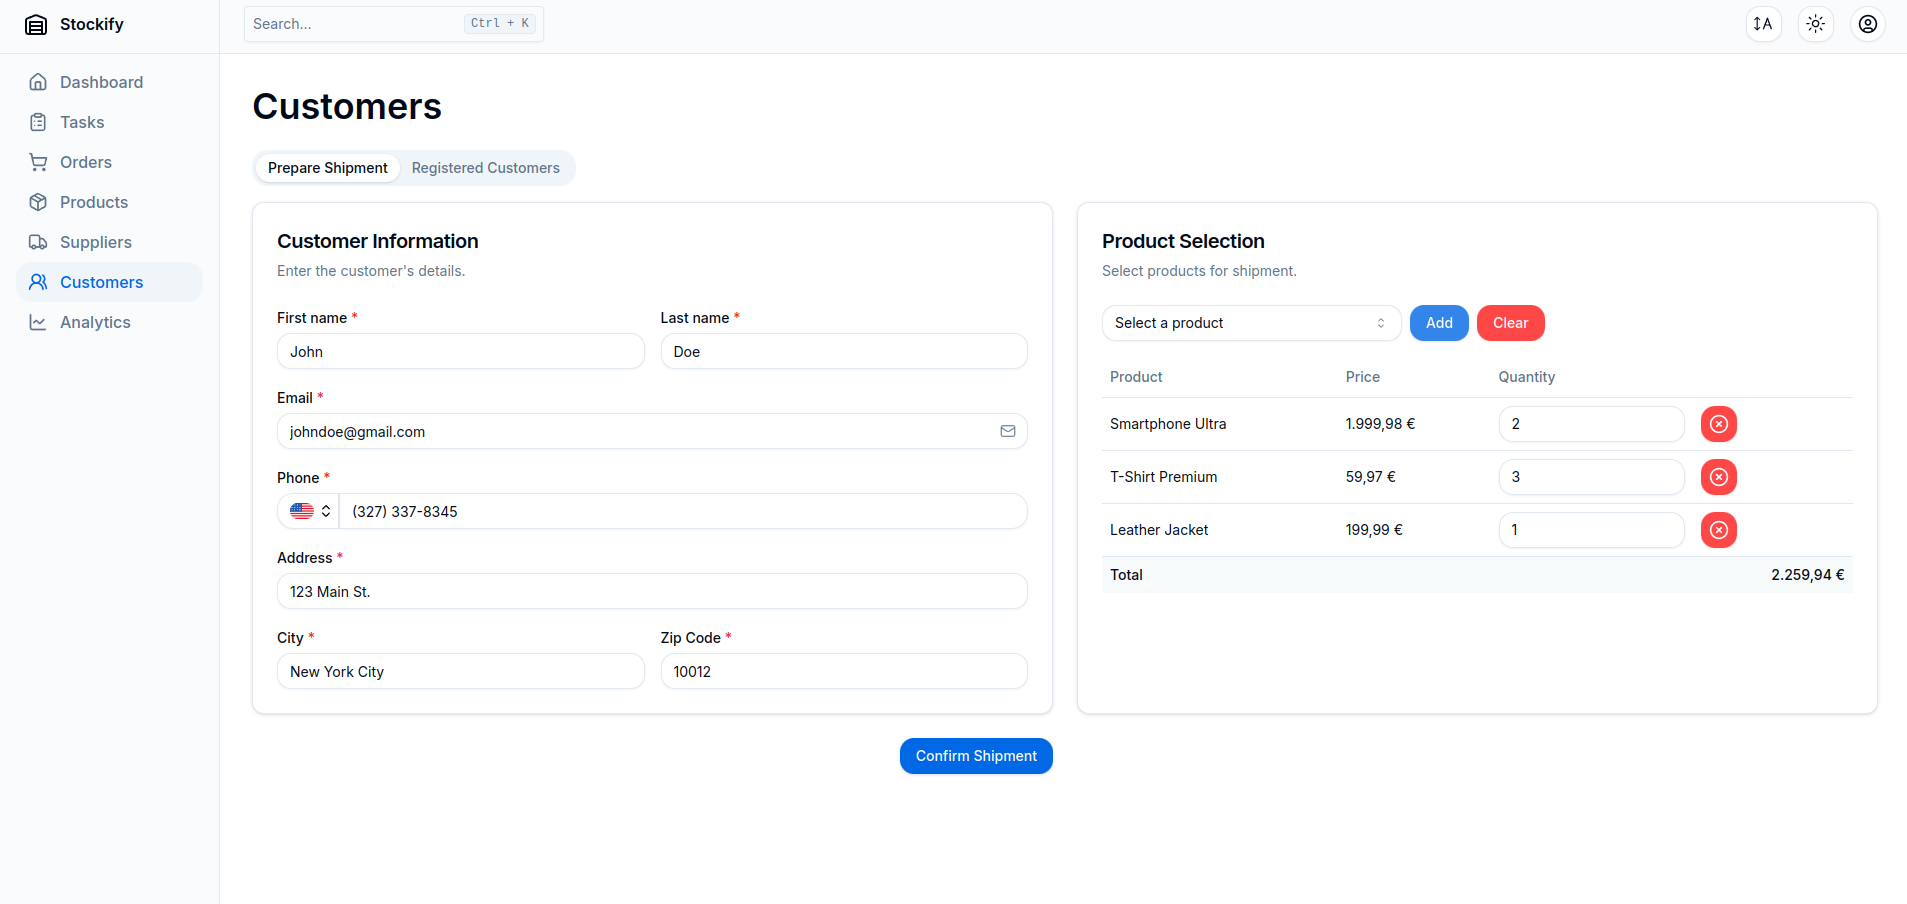
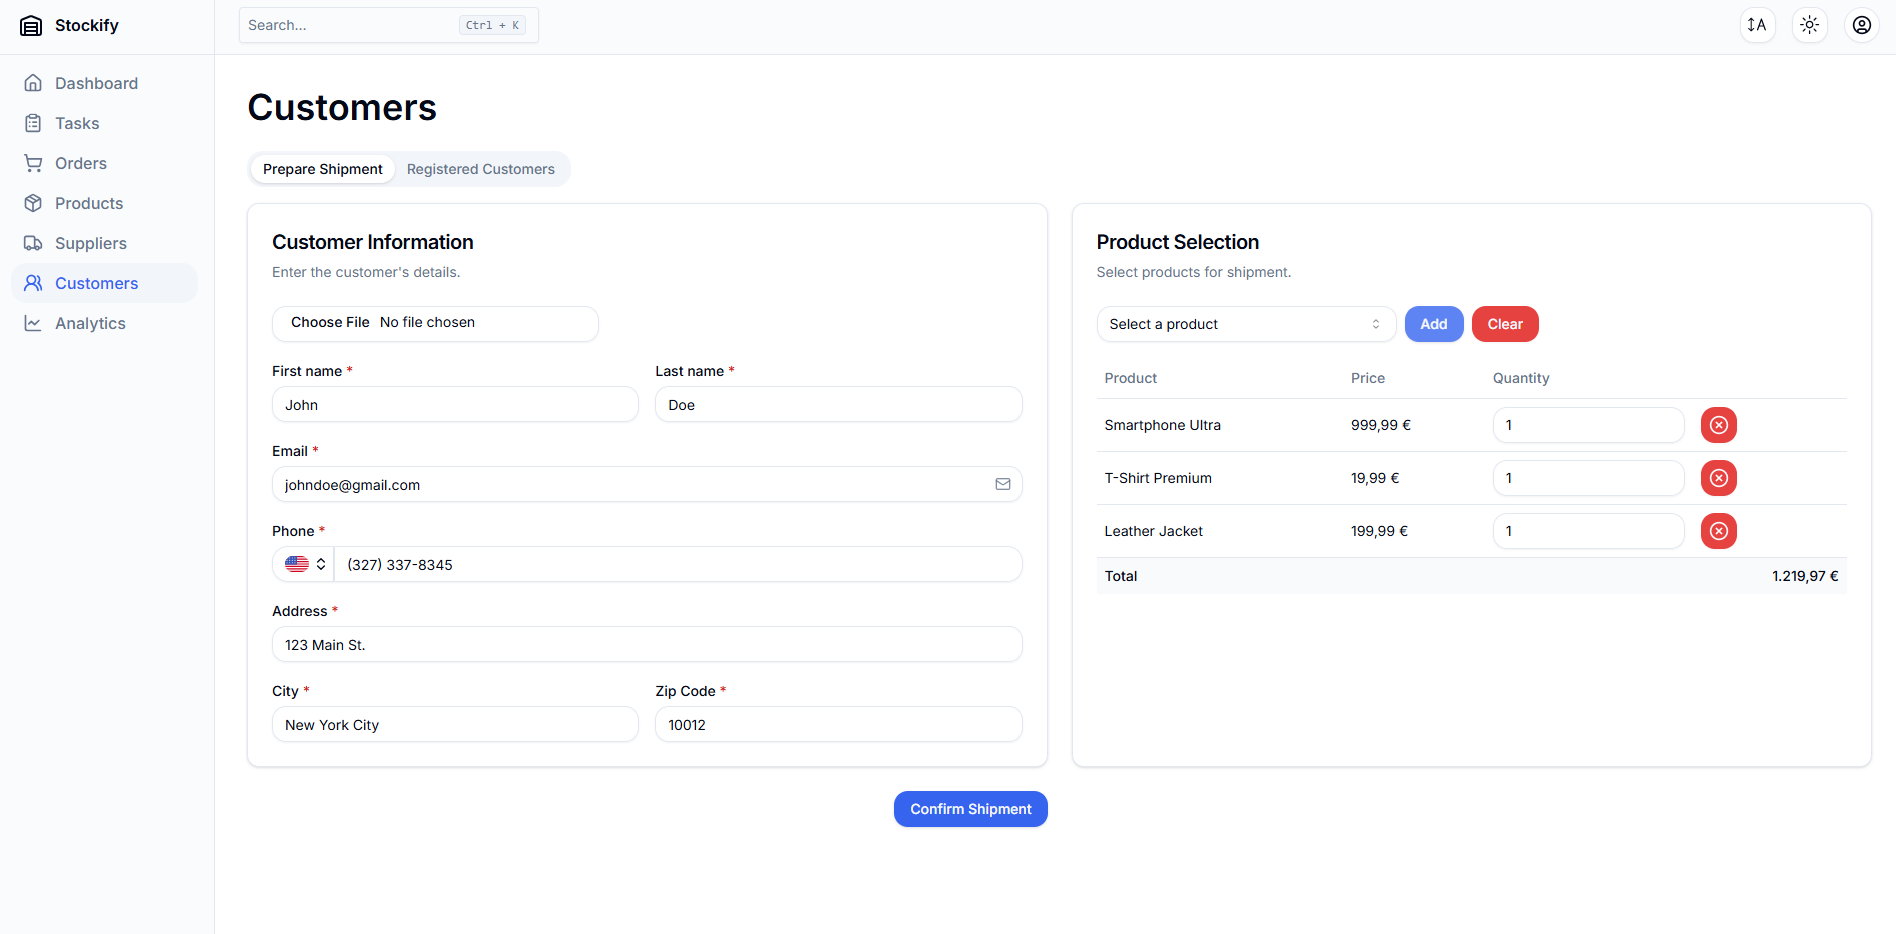
Update README.md

diff --git a/README.md b/README.md
@@ -120,6 +120,7 @@ Stockify is built using modern and efficient web technologies:
 - [React Day Picker](https://react-day-picker.js.org/) for date selection in forms.
 - [React CSV](https://github.com/react-csv/react-csv) for exporting data to CSV files.
 - [Node Cron](https://github.com/merencia/node-cron) for scheduling tasks.
+- [Papaparse](https://github.com/mholt/papaparse) for parsing CSV files.
 - [Ollama](https://github.com/ollama/ollama-js) for AI integration.
 
 ## Getting Started
@@ -129,7 +130,7 @@ Stockify is built using modern and efficient web technologies:
 Ensure you have the following installed:
 
 - [Git](https://git-scm.com/)
-- [Node.js](https://nodejs.org/en/)
+- [Node.js (v22+)](https://nodejs.org/en/)
 - [Ollama](https://ollama.com/download) with the following model: [qwen2.5-coder:1.5b](https://ollama.com/library/qwen2.5-coder:1.5b)
 
 ### Installation
@@ -168,9 +169,11 @@ Ensure you have the following installed:
    ```
 
 6. **Start the development server**:
+
    ```bash
    npm run dev
    ```
+
    The app will be running at [http://localhost:3000](http://localhost:3000).
 
 ## Database Schema
@@ -178,6 +181,11 @@ Ensure you have the following installed:
 Here’s a basic overview of the core models:
 
 ![Prisma ER Diagram](./screenshots/database-schema.svg)
+
+## Future Features
+
+- **Notification System**: Implement a notification system to notify users about important events, such as low stock alerts.
+- **User Roles and Permissions**: Add user roles and permissions to control access to specific features.
 
 ## License
 
